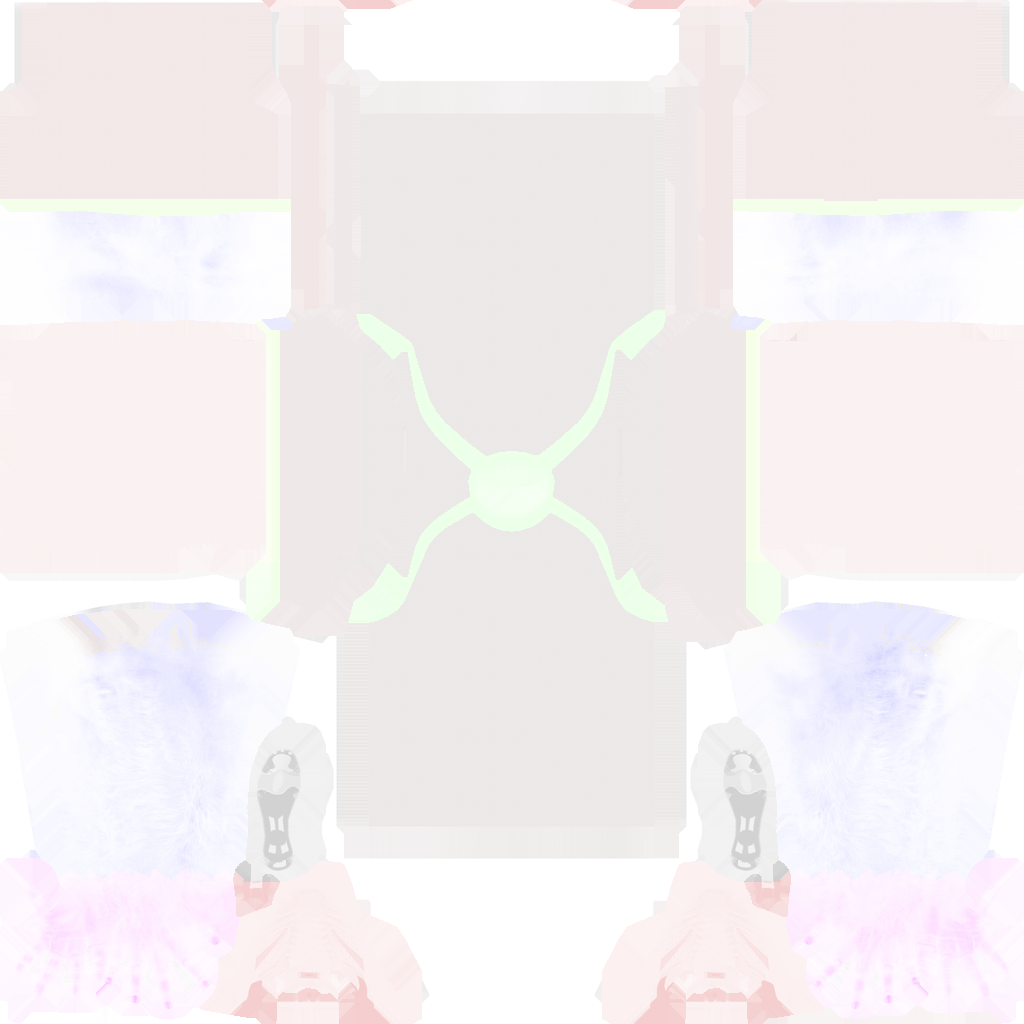
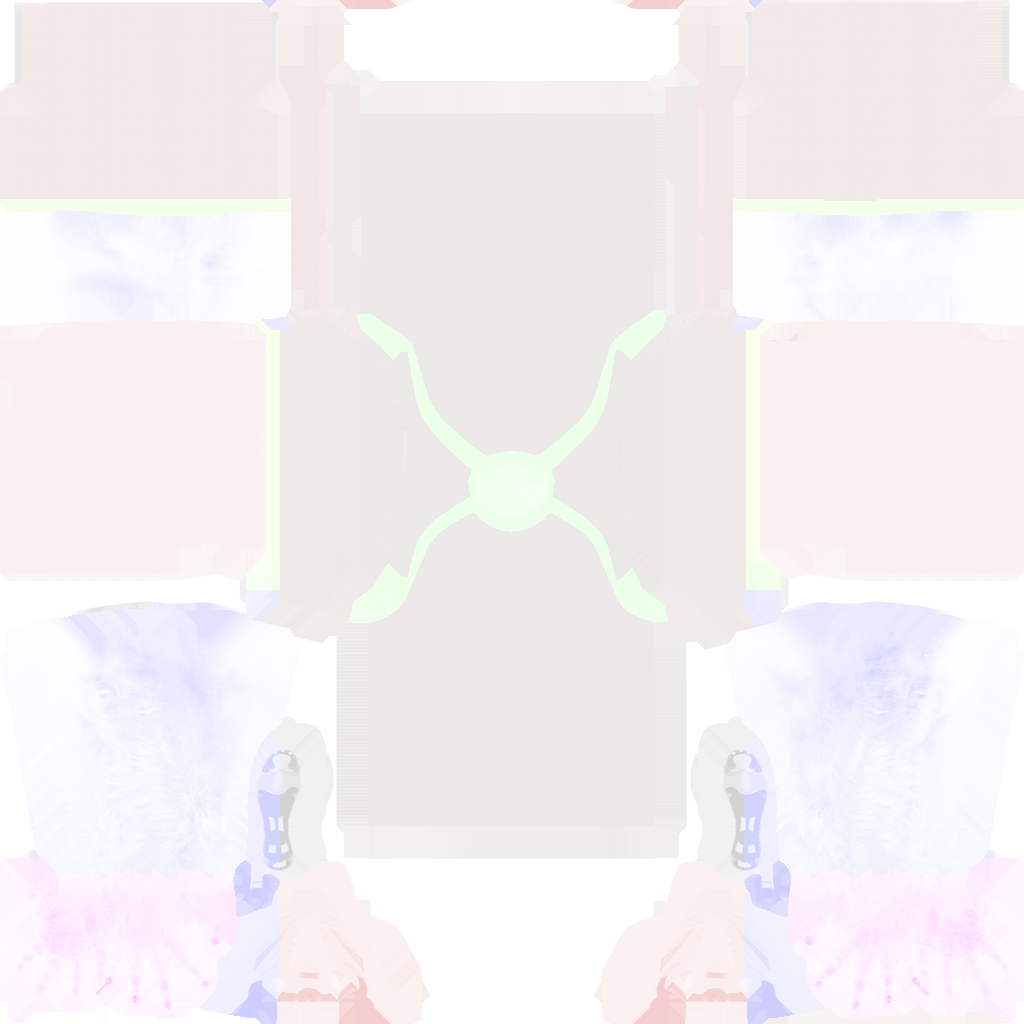
Rocketbox 텍스처 디테일: 허리·셔츠 밑단 줄무늬 제거, 트림·피부 경계 정리, 팔·무릎 얼룩 제거
- 두 모델의 UV를 합쳐 마스크 생성(03번의 긴 셔츠 밑단), 몸통 섬 전체를 셔츠로 지정
- 색 계열마다 국소 평균과 표준편차로 주름 대비를 맞춰 줄무늬 흔적 제거
- 반바지 밑단 아래와 팔 영역은 피부로 고정, 채도 높은 주황만 트림, 트림 틈 메우기
- 로고 자리는 주변 명암을 부드럽게 이어받음

Claude-Session: https://claude.ai/code/session_018BGCnmyAFgJkL1Ehgp8EZr

Changed region(s): [[0.7188, 0.7188, 0.7812, 1.0], [0.2188, 0.7188, 0.2812, 1.0], [0.0625, 0.5938, 0.0938, 0.625]]

diff --git a/tools/human/rocketbox/02_textures.py b/tools/human/rocketbox/02_textures.py
@@ -116,19 +116,25 @@ for t in tris:
         dc.polygon(pts, fill=255)
 covered = np.asarray(covered) > 0
 # The torso island is all shirt, including the longer untucked hem of some avatars (weighted to the hips).
-for part_id, boxes in ((3, [(0, 0, 292, 206), (732, 0, 1024, 206)]), (4, [(0, 330, 278, 562), (746, 330, 1024, 562)]), (1, [(362, 40, 664, 900)])):
+for part_id, boxes in ((3, [(0, 0, 292, 206), (732, 0, 1024, 206)]), (4, [(0, 330, 278, 562), (746, 330, 1024, 562)]), (1, [(362, 40, 664, 900)]),
+                        # The arm islands at the bottom carry the upper arm below the sleeve too (weighted to the arm).
+                        (0, [(0, 590, 280, 1024), (744, 590, 1024, 1024)])):
     for x0, y0, x1, y1 in boxes:
         region[y0:y1, x0:x1] = np.where(covered[y0:y1, x0:x1], part_id, region[y0:y1, x0:x1])
 # Skin only where skin is modelled (arms below the sleeves, hands, the thigh band under the shorts), never as the thin
 # antialiased fringe of a coloured trim.
 skin &= np.isin(region, (0, 2, 3, 4)) & (blur(skin.astype(float), 1.5) > 0.6) & ~(((h < 28) | (h > 345)) & (s >= 0.5))
+# Fill pinholes inside skin areas (dark shadowed skin at the back of the arms reads as fabric by colour).
+skin |= (blur(skin.astype(float), 2.5) > 0.45) & np.isin(region, (0, 2, 3, 4)) & ~(((h < 22) | (h > 345)) & (s >= 0.62))
+# Forearm and hand islands are all skin (their dark borders would otherwise keep the painted black).
+skin |= covered & (region == 0)
 # Below the shorts hem the thigh island is all skin (its shadowed inner side is too saturated to tell
 # from fabric by colour): per column, everything under the lowest hem-trim texel is skin.
 for x0, x1 in ((0, 292), (732, 1024)):
     for x in range(x0, x1):
         rows = np.nonzero(trim[180:260, x])[0]
         hem = 180 + (rows.max() + 1 if len(rows) else 32)
-        skin[hem:330, x] |= covered[hem:330, x] & (region[hem:330, x] != 4)
+        skin[hem:330, x] |= covered[hem:330, x]
 part = np.where(skin | (sole & (region == 5)), 0, region)
 part[~covered] = 0
 hands = Image.new('L', (N, N), 0)
